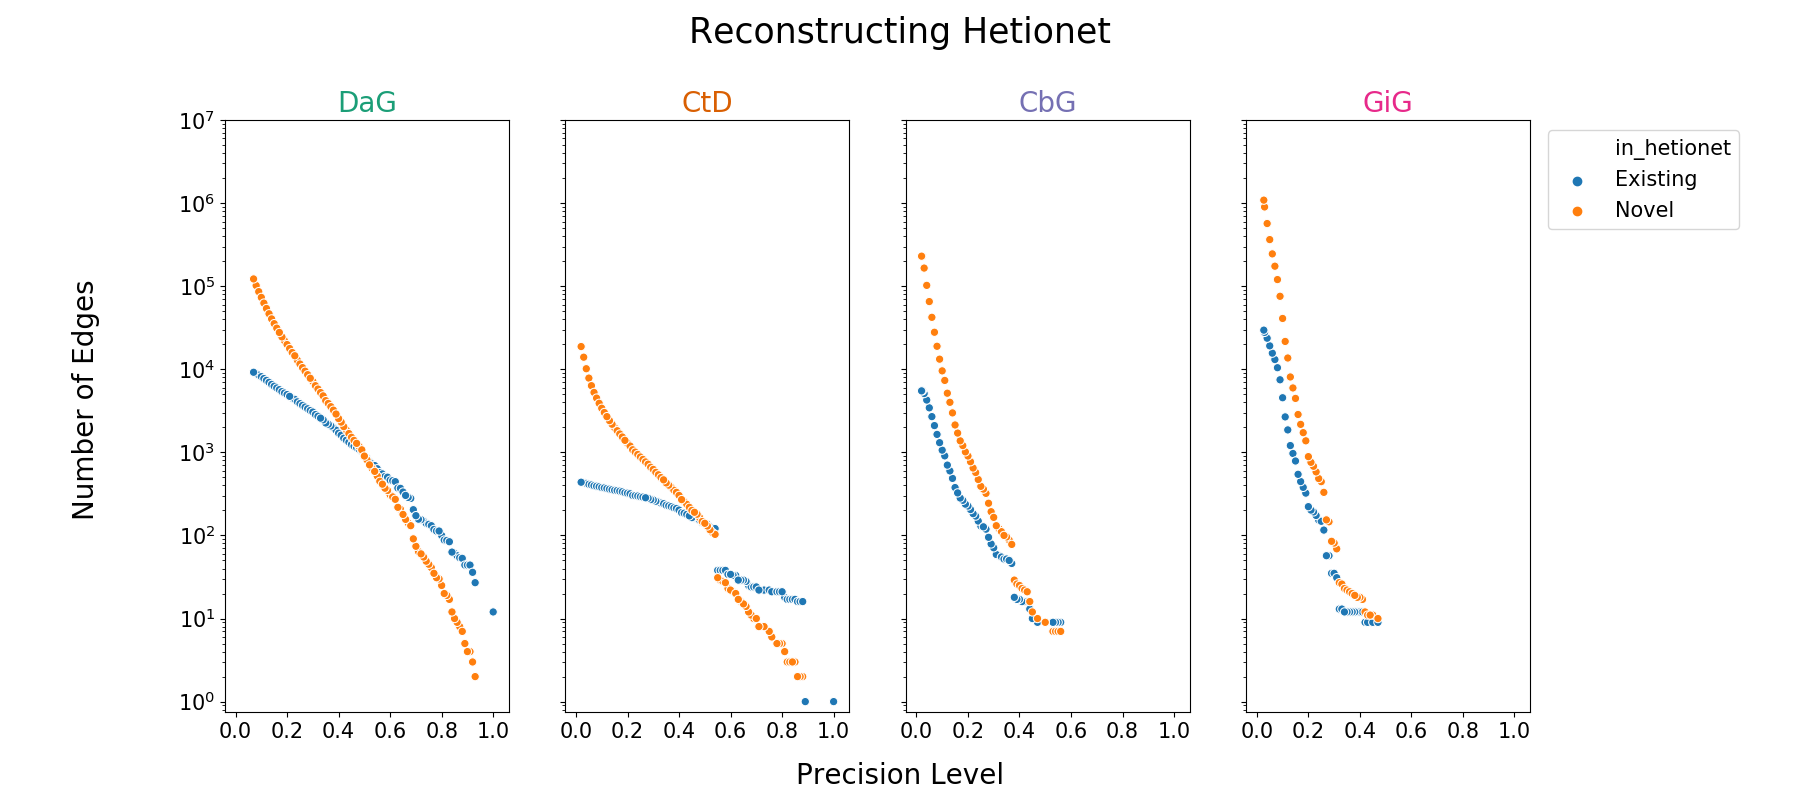
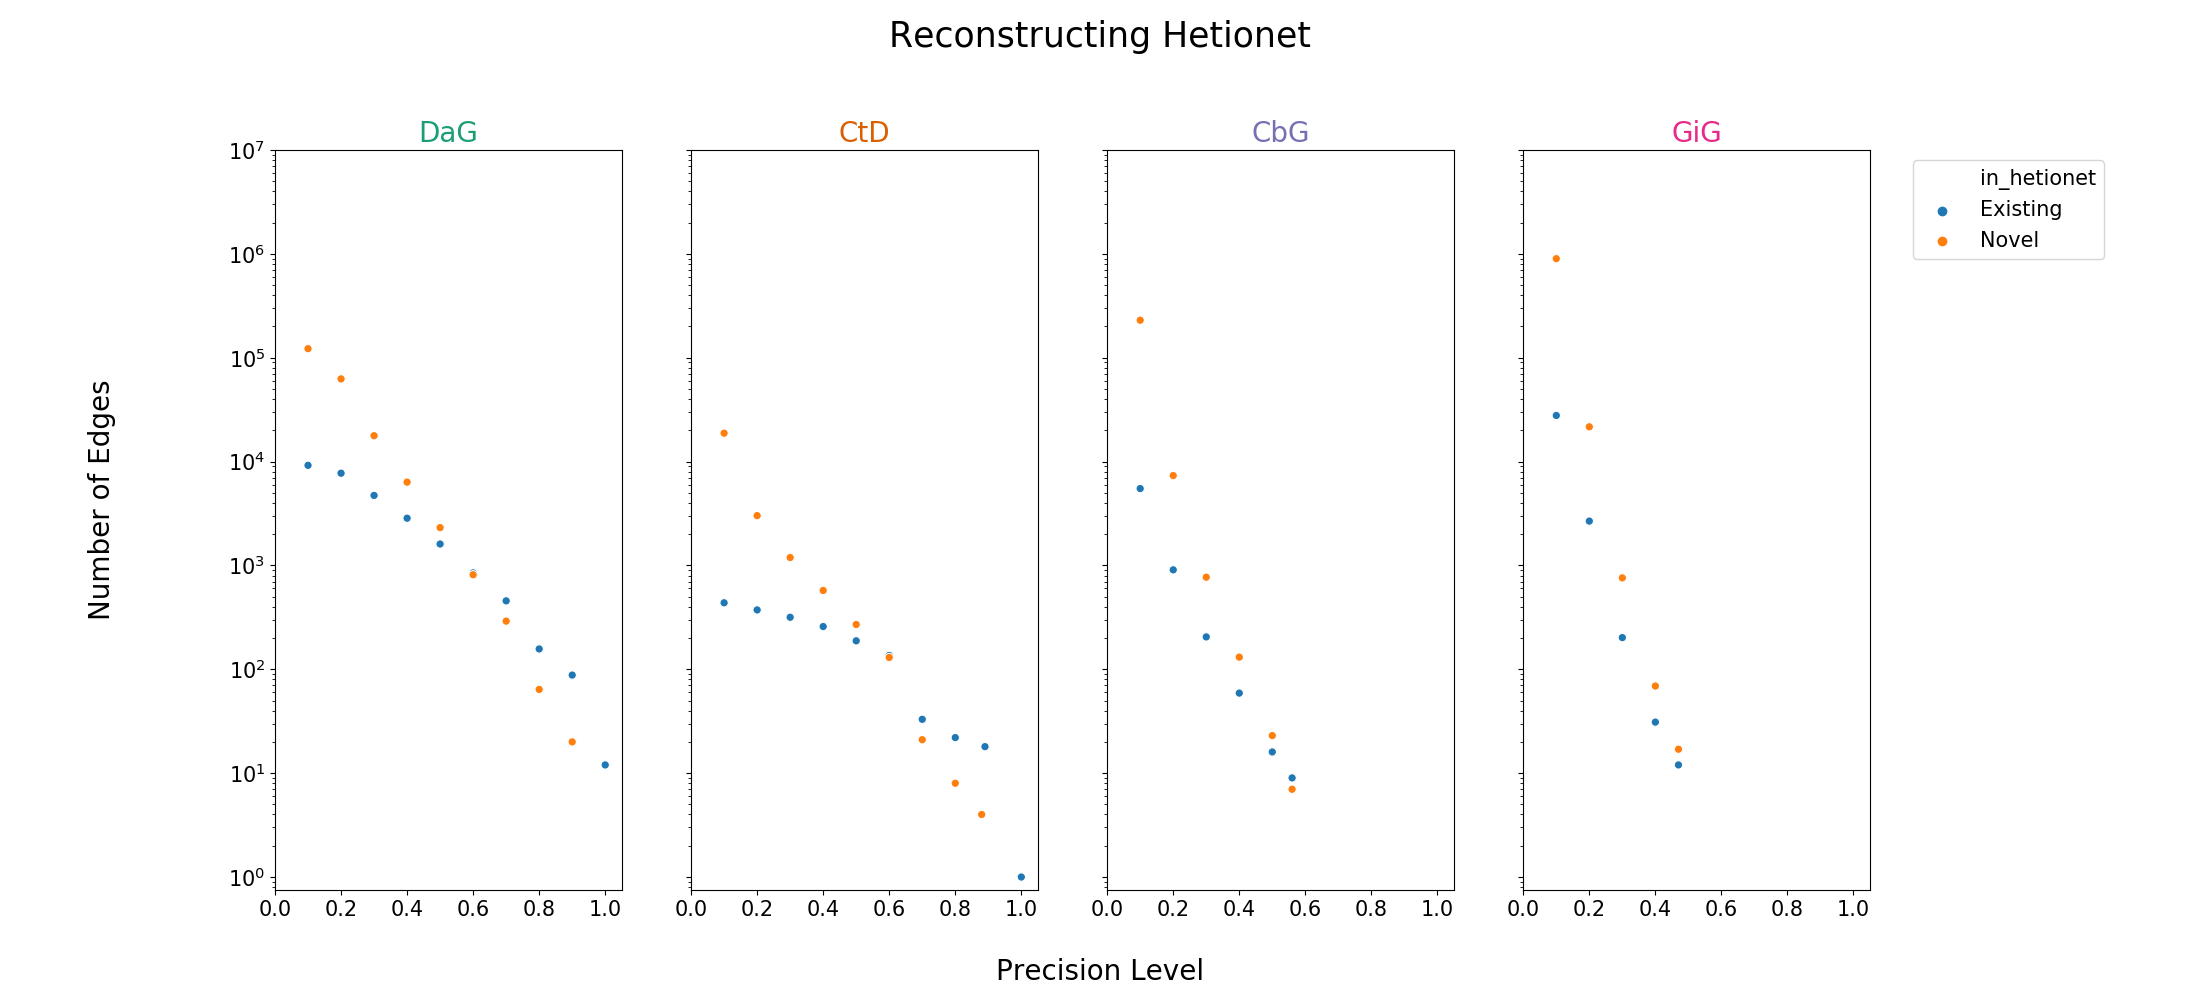
Added description for reconstructing Hetionet

diff --git a/content/04.results.md b/content/04.results.md
@@ -10,6 +10,18 @@ place the grid of aurocs here for discriminator model
 place the results of random label function experiment
 
 ## Reconstructing Hetionet
+After the discriminiative model has been calibrated, we estimated the number of edges that can be added/recalled to Hetionet v1.
+Figure {@fig:hetionet_reconstruction}, depicts the number of edges based on precision level.
+For Disease associates Gene (DaG) we can add 74 new edges while matintaining 70% precision.
+Likewise with Compound treats Disease (CtD) we can add 10 new edges while maintaining 70% precision.
+As for Compound binds Gene (CbG) and Gene interacts Gene (GiG) the models fail to reach precision higher than 0.5 and 0.6 respectively.
+Despite the low performance, we are still able to add new edges that Hetionet v1 hasn't seen before.
+
 ![
-This figure is about reconstructing hetionet.
+A scatter plot showing the number of edges (log scale) we can add or recall given the precision level. 
+The blue depicts edges exisiting in hetionet and the orange depicts how many novel edges can be added to hetionet.
+Note that some edge types do not reach 100% precision.
 ](images/figures/hetionet_reconstruction/edges_added.png){#fig:hetionet_reconstruction}
+
+
+
